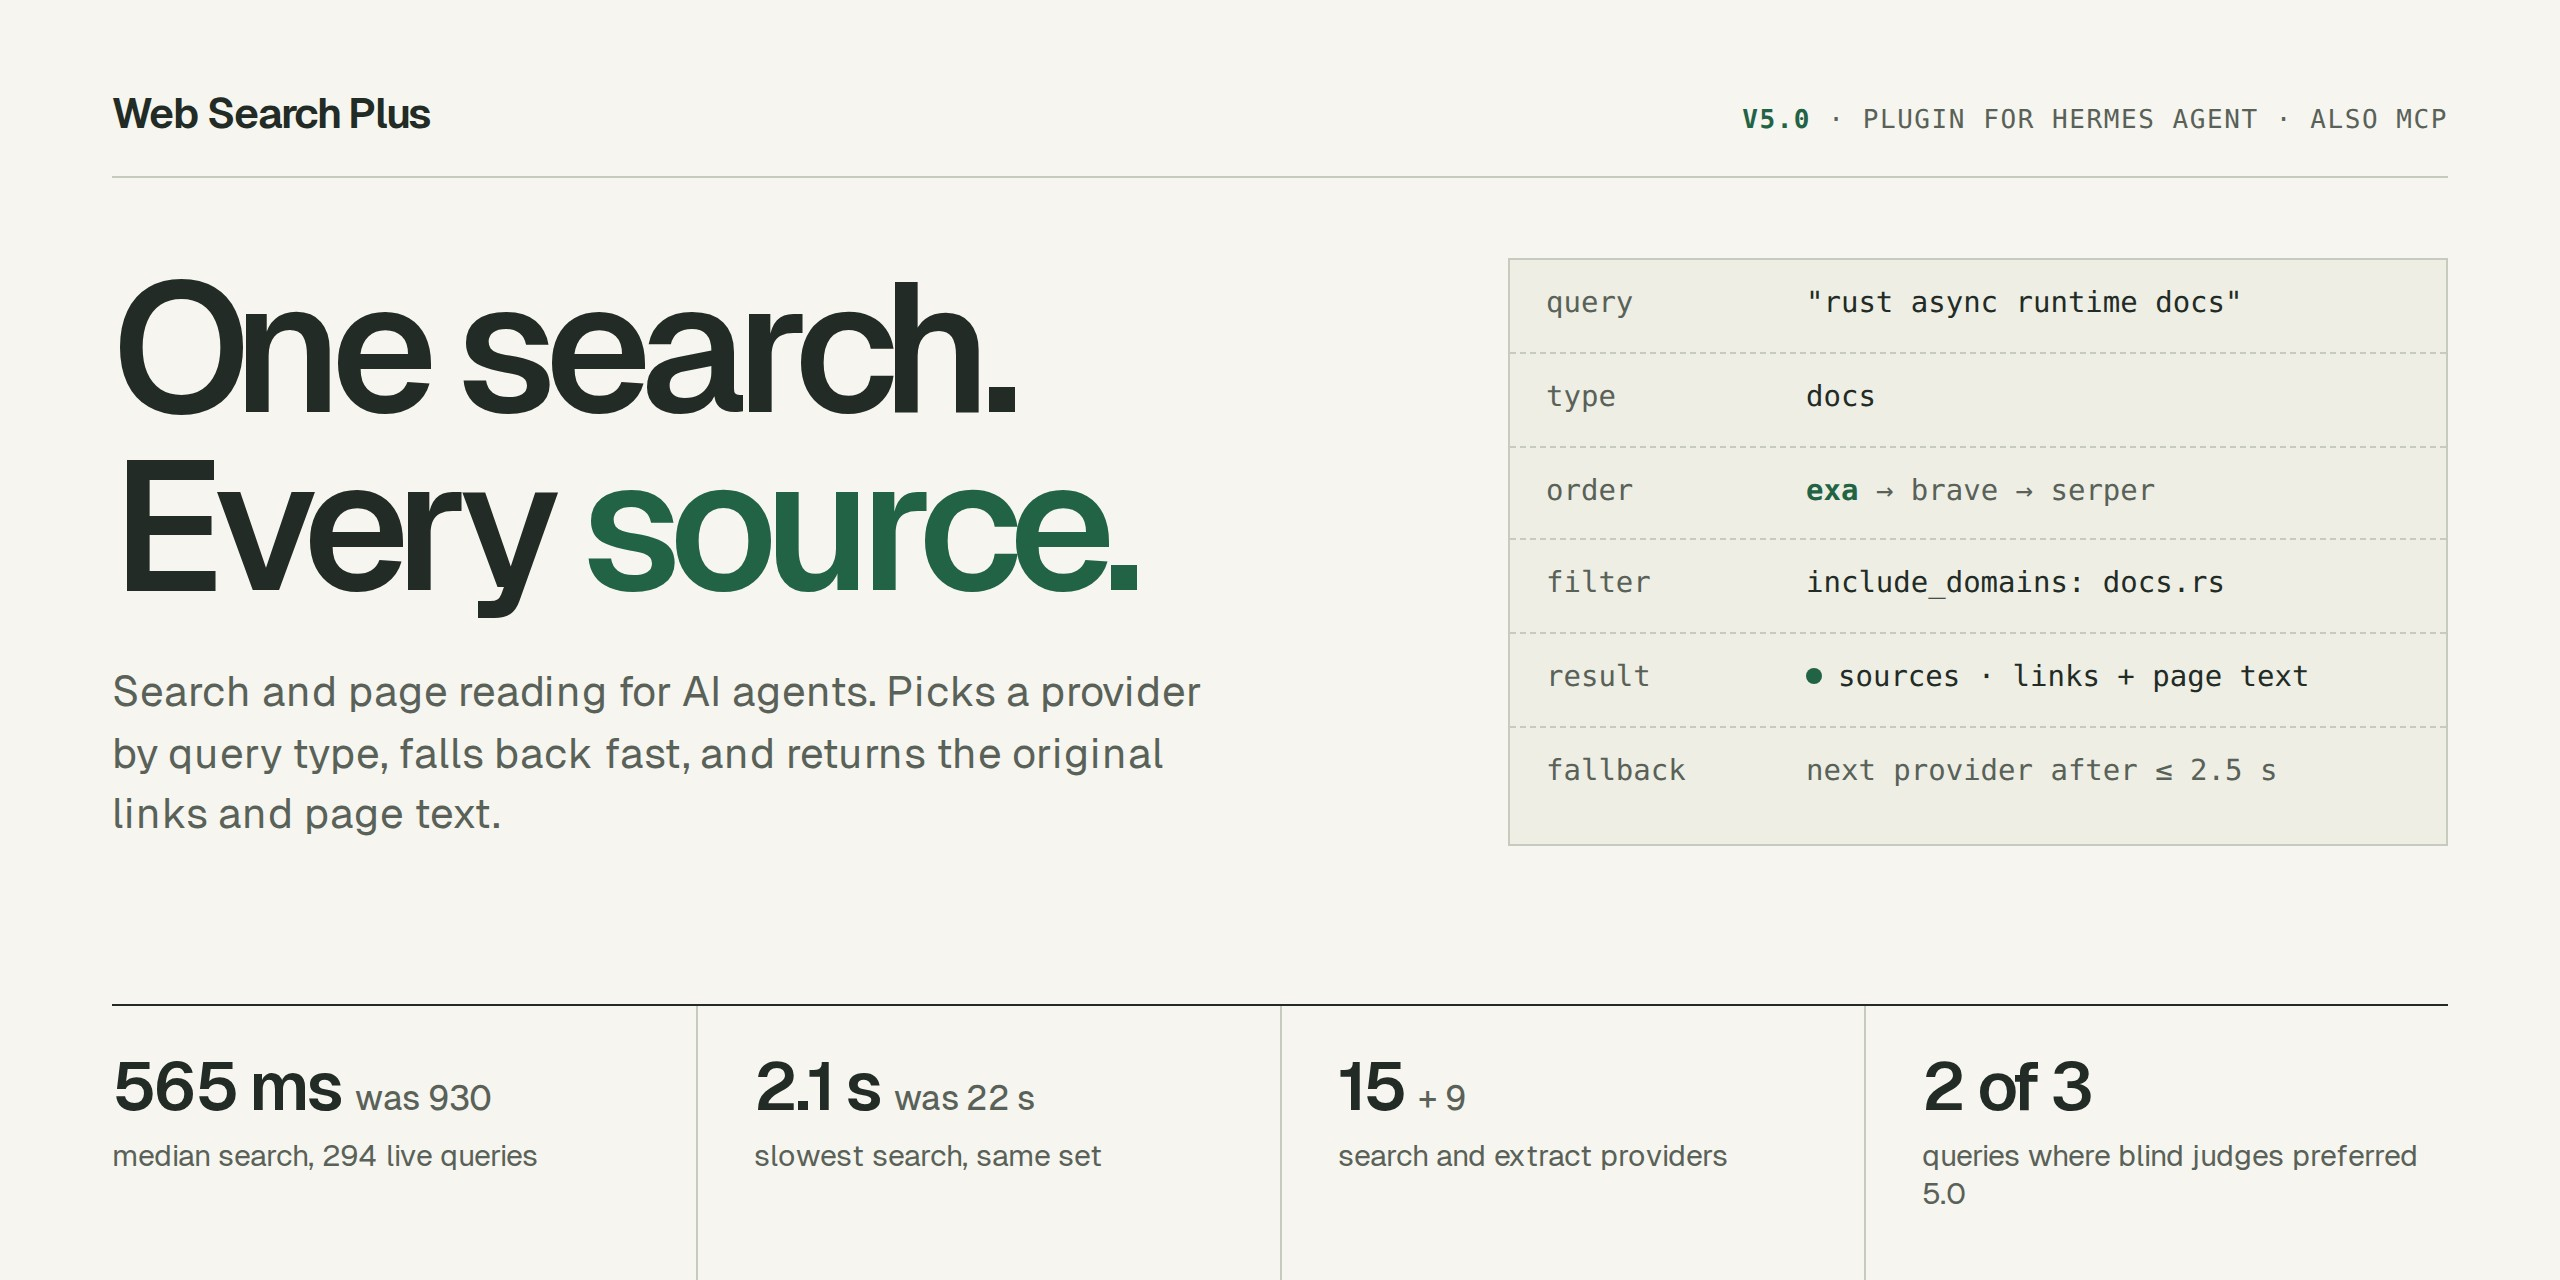
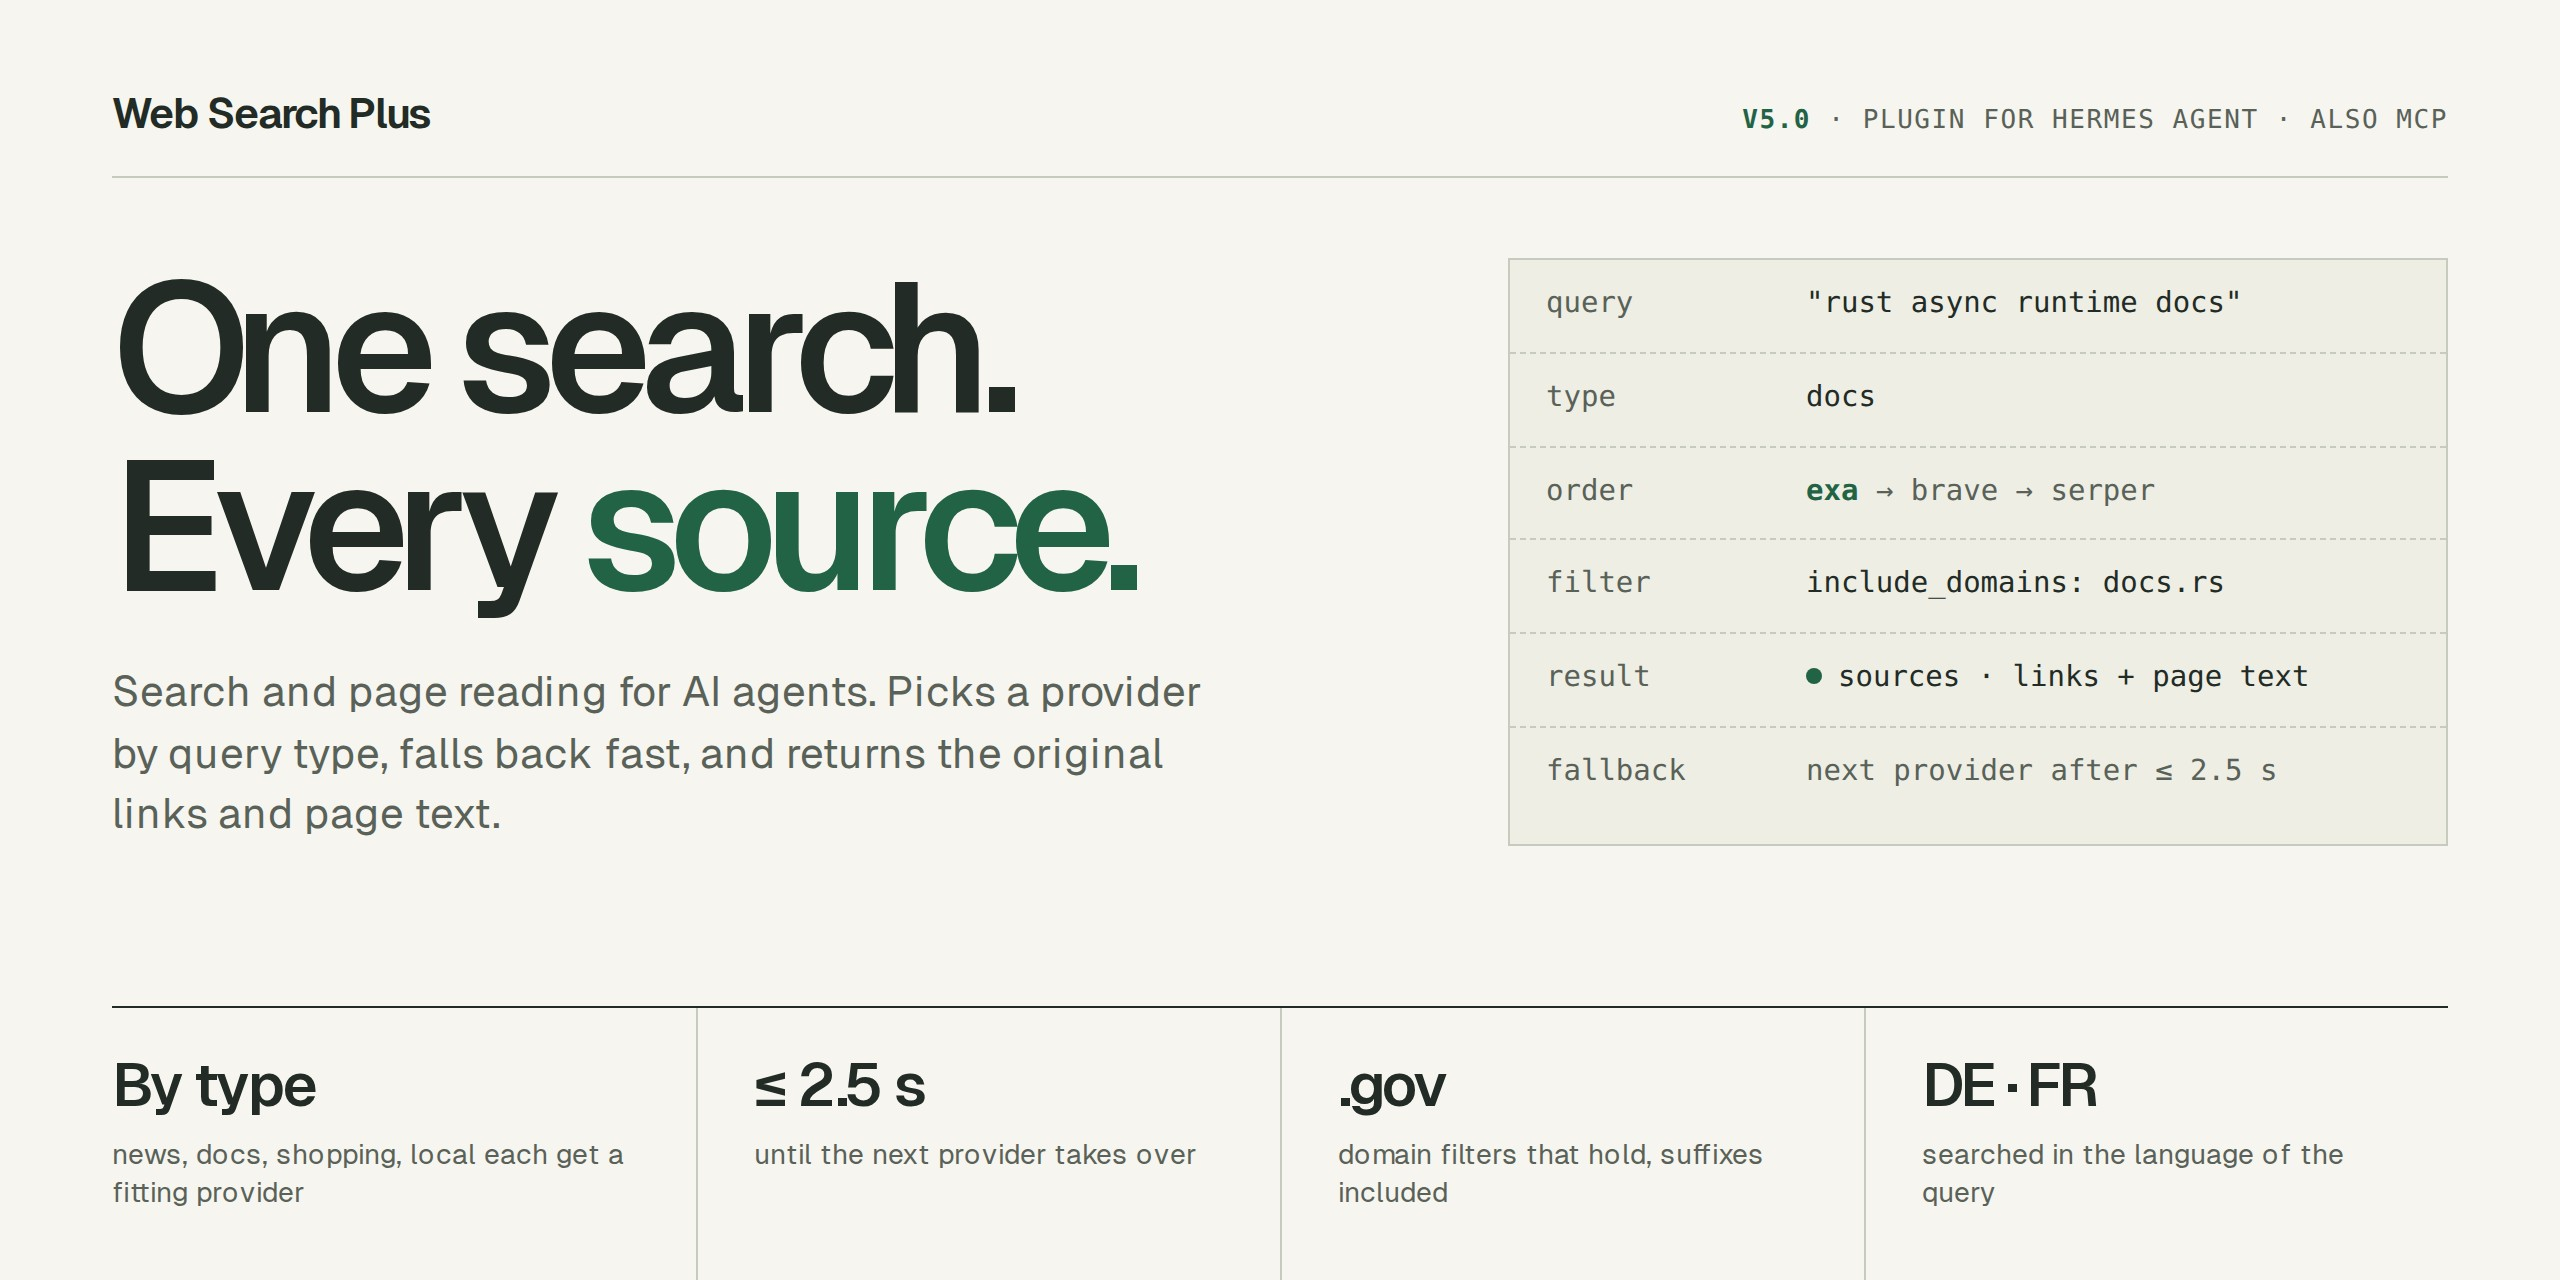
docs: hero without benchmark figures (#155)

diff --git a/README.md b/README.md
@@ -1,7 +1,7 @@
 # Web Search Plus — Hermes Plugin
 
 <p align="center">
-  <img src="docs/assets/web-search-plus-v5-hero.jpg" alt="Web Search Plus 5.0: one search, every source. Median search 565 ms instead of 930 ms on 294 live queries" width="100%">
+  <img src="docs/assets/web-search-plus-v5-hero.jpg" alt="Web Search Plus 5.0: one search, every source. Picks a provider by query type and falls back fast." width="100%">
 </p>
 
 <p align="center">
